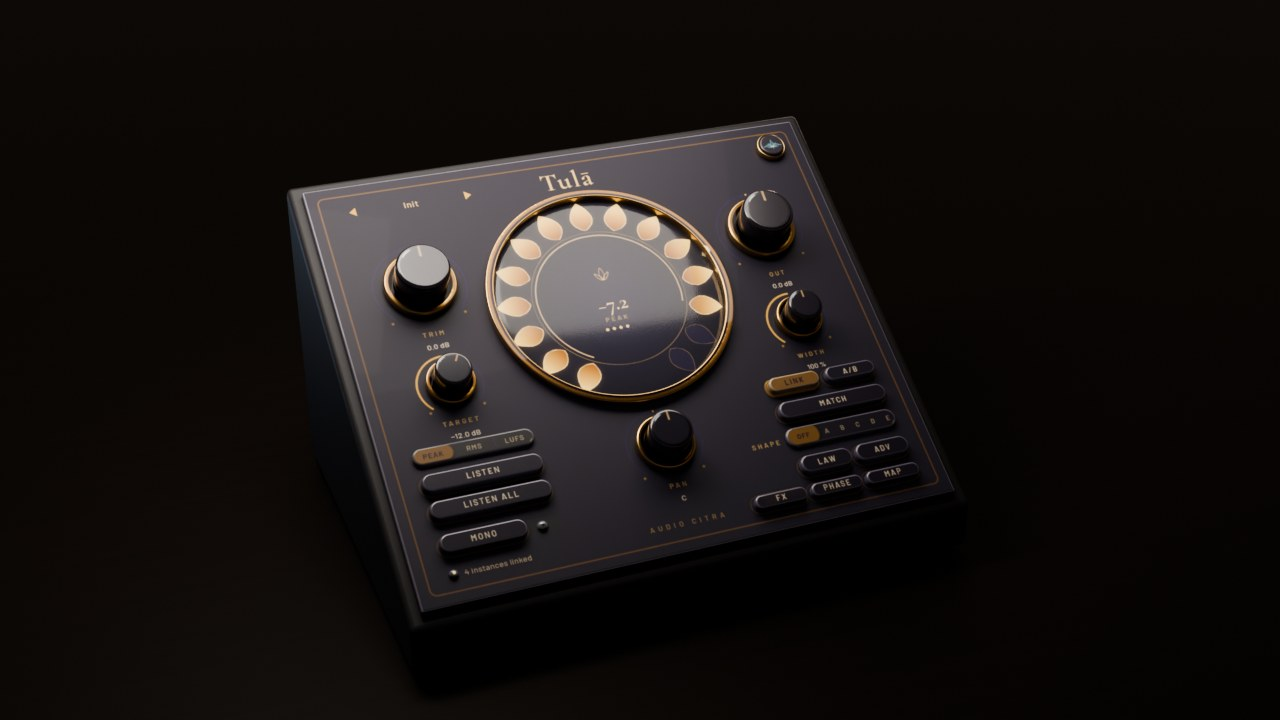
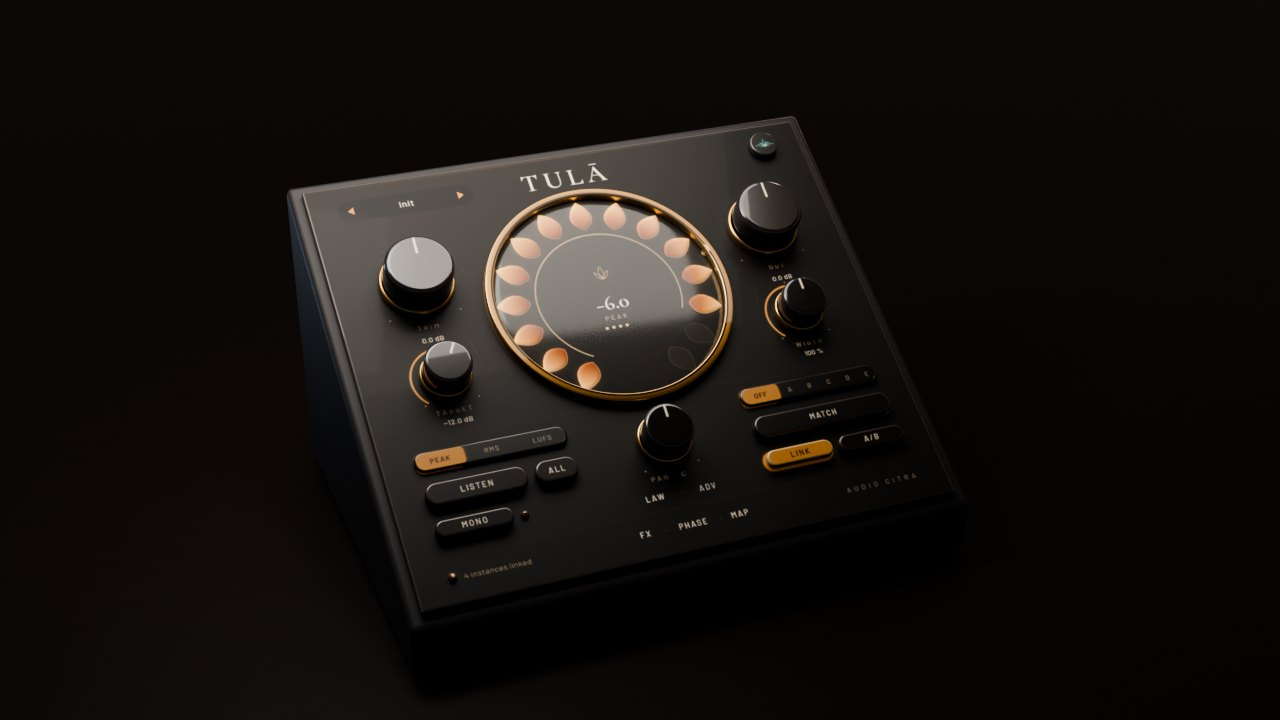
Tulā hero: re-rendered for Citra v2 (build 114)
The capture is tula_face_render --manual at build 114 (four linked Tulās playing, the resize grip painted out). The scene follows
the v2 face: a wide black cap inside a thin bronze rim on every knob (measured on the capture: rim 0.87-0.955 of the radius),
LAW, ADV, FX, PHASE and MAP printed flat (bare words in v2), the shape track from its own layout rect, a rimless menu key, and a
warm obsidian panel side.

Changed region(s): [[0.2188, 0.1528, 0.7188, 0.825]]

diff --git a/tools/tula_desk.py b/tools/tula_desk.py
@@ -70,7 +70,7 @@ def planar_uv(o):
 def upd(o): bpy.context.view_layer.update(); planar_uv(o); return o
 
 # ---------- the panel (built face up at z = 0; the rig tilts it onto the case below) ----------
-M_FACE = print_mat("face", (0.02, 0.016, 0.03), rough=0.55, coat=0.03, emit=0.1)
+M_FACE = print_mat("face", (0.018, 0.012, 0.008), rough=0.55, coat=0.03, emit=0.1)
 M_FACE.node_tree.nodes["Principled BSDF"].inputs["Specular IOR Level"].default_value = 0.3   # a satin panel: the softbox must not grey it
 PANEL = ring_col_rect(4, 4, W - 4, 10)
 M_EDGE = mat("panel_edge", tuple(v / 0.8 for v in PANEL), rough=0.42, coat=0.4)
@@ -81,7 +81,8 @@ face.scale = (W / 100, H / 100, 1); bpy.ops.object.transform_apply(scale=True); 
 
 # ---------- the knobs: a gold skirt (the printed gold ring stands with it) under a black glass cap ----------
 M_GOLD_SIDE = (0.55, 0.36, 0.14)
-for cid, (fr, fc) in (("trim", (0.50, 0.37)), ("out", (0.50, 0.37)), ("target", (0.50, 0.37)), ("width", (0.50, 0.37)), ("pan", (0.50, 0.37))):
+# Citra v2 (build 114): a wide black cap inside a thin bronze rim, measured on the capture: rim 0.87-0.955 of the knob's radius
+for cid, (fr, fc) in (("trim", (0.555, 0.505)), ("out", (0.555, 0.505)), ("target", (0.555, 0.505)), ("width", (0.555, 0.505)), ("pan", (0.555, 0.505))):
     x0, y0, x1, y1 = rect(cid); x, y = (x0 + x1) / 2, (y0 + y1) / 2; d = x1 - x0
     rs, rc = d * fr * 0.86, d * fc * 0.86           # the gold ring's outer edge, the black cap's
     top = knob_h(2 * rs); hs = min(top * 0.3, 4 * MMU)
@@ -107,15 +108,14 @@ def ring(cx_, cy_, r0, r1, h_mm, metal=0.0, rough=0.3, side=None):
     o.location = (*P(cx_, cy_), 0); o.data.materials.append(print_mat("ringm", side, rough, 0.5, metal)); bevel(o, 0.5 * MMU, 3, 40); smooth(o, 40)
     return upd(o)
 
-for cid in ("listen", "listen_all", "match", "mono", "link", "ab", "pan_law_button", "pan_adv_button", "host", "phase", "map"):
+# v2: LAW, ADV, FX, PHASE and MAP are bare words on the panel, printed flat
+for cid in ("listen", "listen_all", "match", "mono", "link", "ab"):
     x0, y0, x1, y1 = rect(cid); key(x0 + 1, y0 + 1, x1 - 1, y1 - 1, 4.0)
 for cid in ("detection", "pan_shape"):                     # the selector tracks stand low; their lit segment is printed on top
     x0, y0, x1, y1 = rect(cid)
-    if cid == "pan_shape": x0 = 388                         # the track starts at OFF; SHAPE is printed on the panel
     key(x0, y0, x1, y1, 2.0)
-x0, y0, x1, y1 = rect("menu"); mc = ((x0 + x1) / 2, (y0 + y1) / 2)   # the lotus menu key: round
-ring(*mc, 13.5, 16.0, 3.0, metal=1.0, rough=0.25, side=M_GOLD_SIDE)
-bpy.ops.mesh.primitive_cylinder_add(vertices=96, radius=13.5 / 100, depth=4 * MMU, location=(*P(*mc), 2 * MMU)); mk = bpy.context.object
+x0, y0, x1, y1 = rect("menu"); mc = ((x0 + x1) / 2, (y0 + y1) / 2)   # the lotus menu key: a round black key, no rim in v2
+bpy.ops.mesh.primitive_cylinder_add(vertices=96, radius=(x1 - x0) / 2 / 100, depth=4 * MMU, location=(*P(*mc), 2 * MMU)); mk = bpy.context.object
 mk.data.materials.append(print_mat("menukey", (0.02, 0.018, 0.026), 0.3, 0.6)); bevel(mk, 0.8 * MMU, 3); smooth(mk); upd(mk)
 for cid in ("mono_lamp", "link_lamp"):
     x0, y0, x1, y1 = rect(cid); dome((x0 + x1) / 2, (y0 + y1) / 2, (x1 - x0) / 2 + 0.5, 2.0, emit=0.4)
